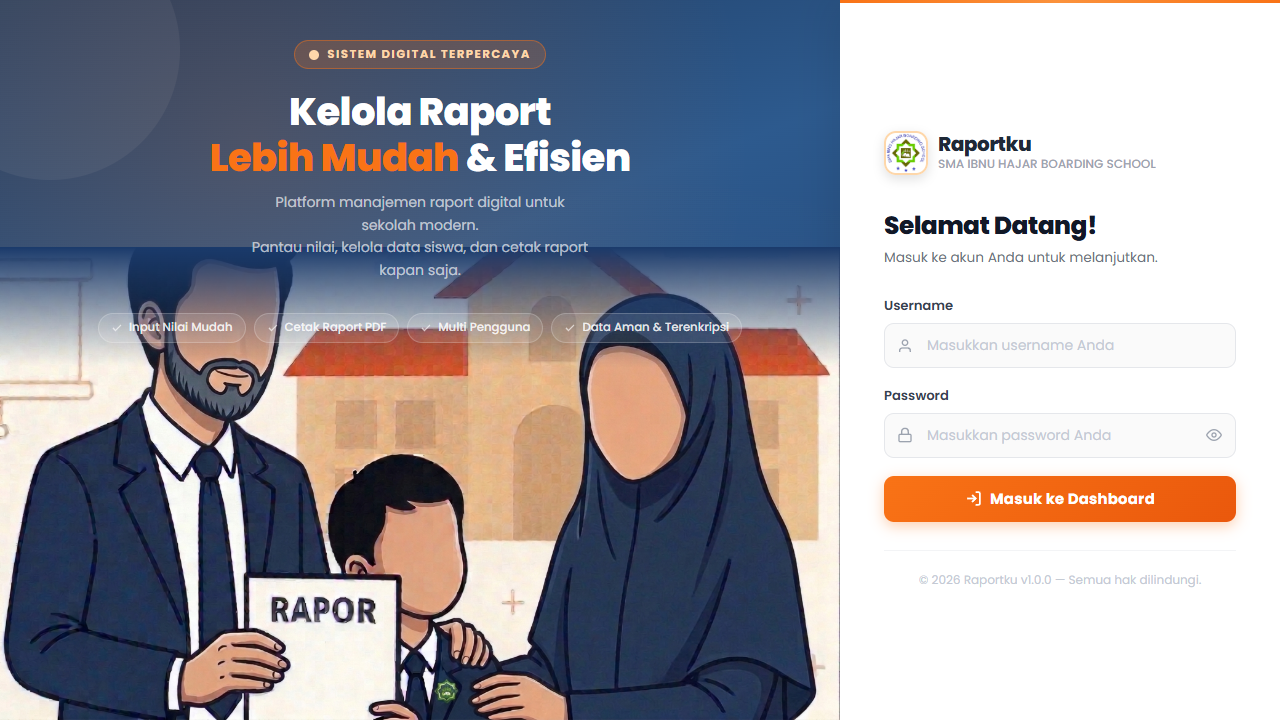
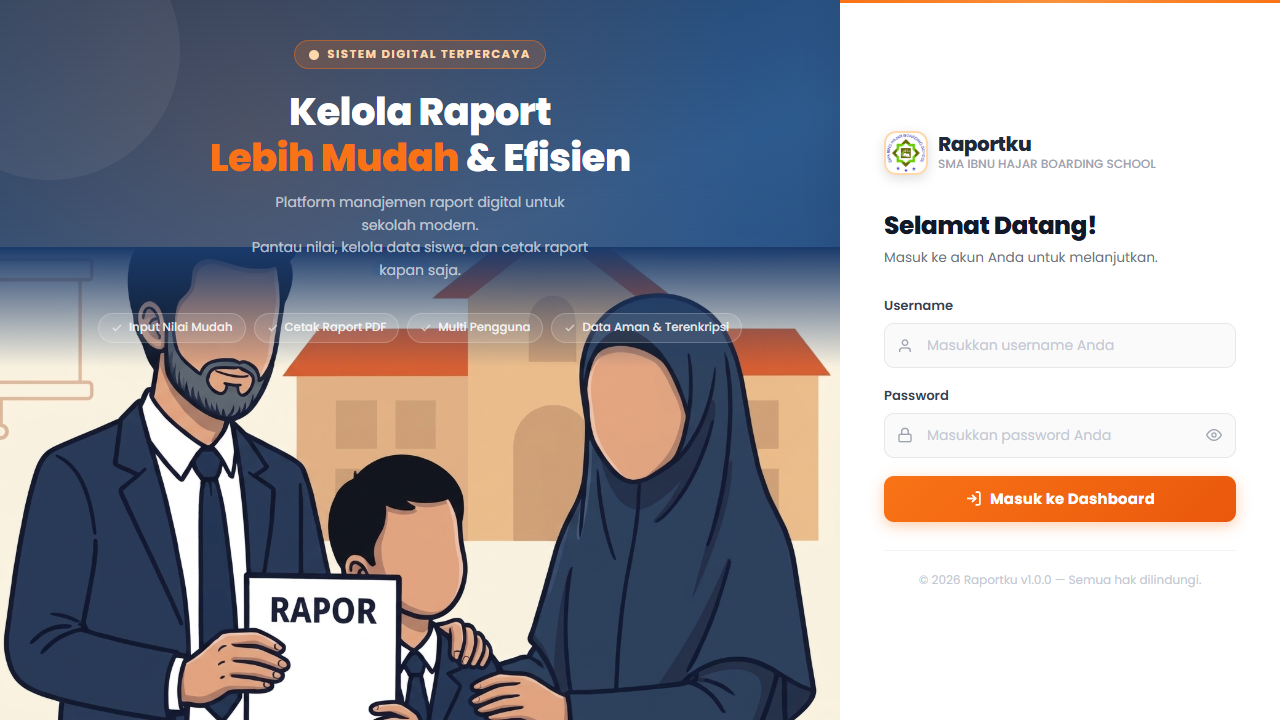
raportku SMA

diff --git a/pages/login.php b/pages/login.php
@@ -85,7 +85,7 @@ $thumb_url  = UPLOAD_URL . 'photos/thumbnail.png';
             flex-direction: column;
             align-items: center;
             justify-content: flex-start;
-            overflow: hidden;
+            overflow: visible;           /* jangan crop gambar */
             background: linear-gradient(160deg, #1e3a5f 0%, #2d5a8e 40%, #1a3a6b 100%);
             min-height: 100vh;
             height: 100vh;
